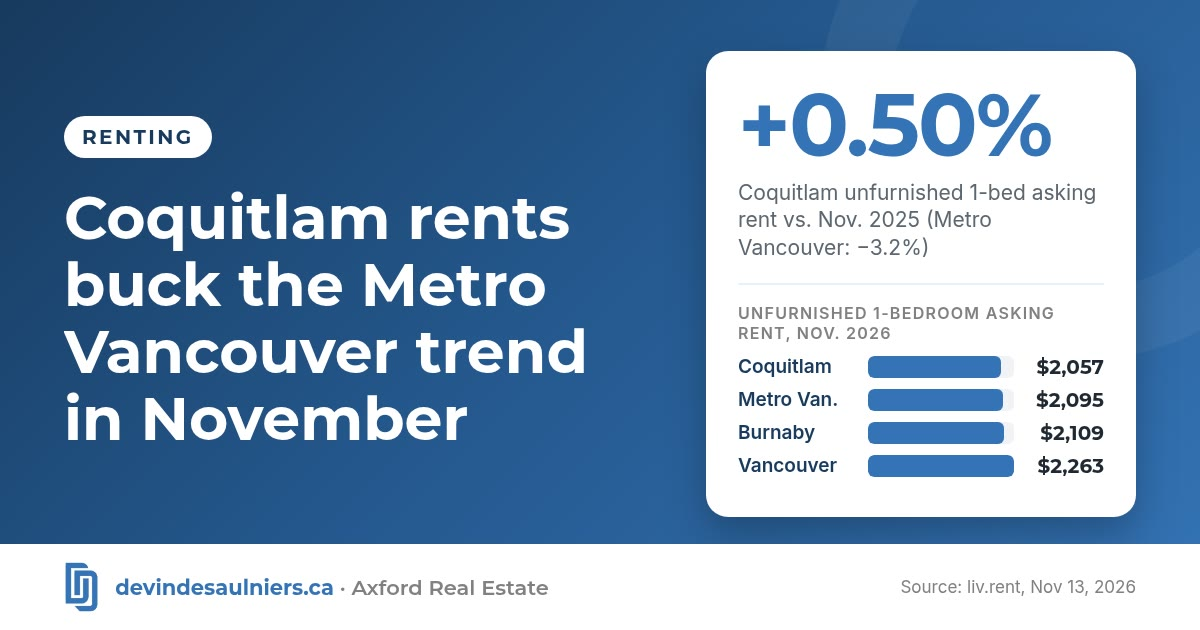
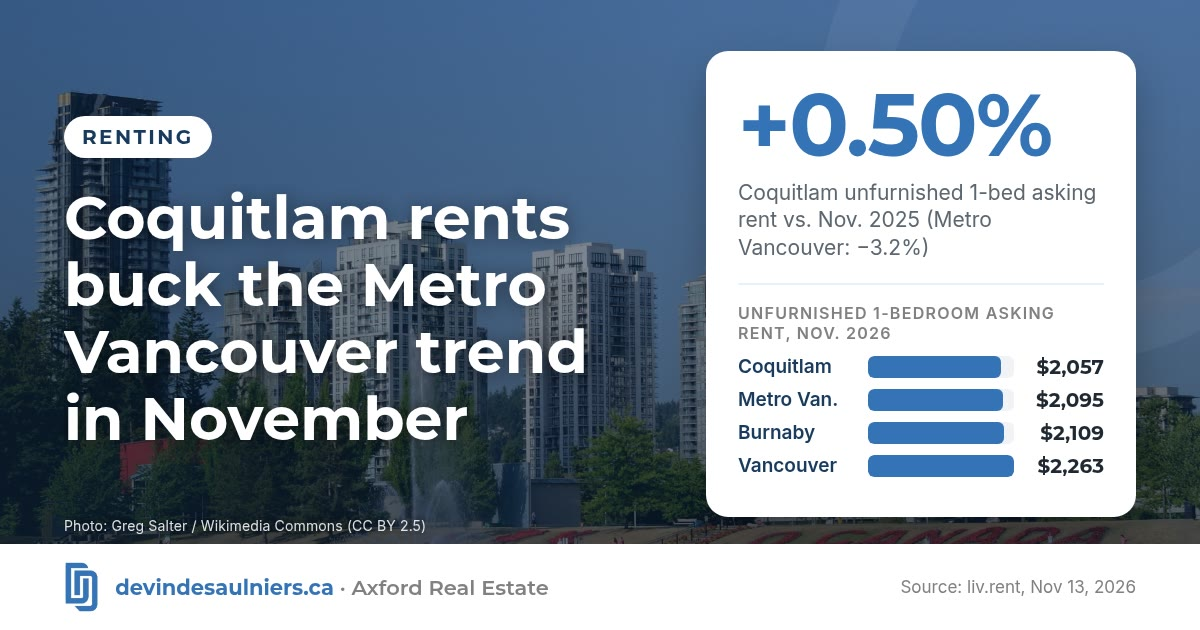
Blog: use place photos on the Moody Centre Station and Coquitlam rents headers
Swap the approved licensed photographs into the two live featured images, with on-image and on-page photo credits. Other posts are unchanged.

diff --git a/blog/2026-11-17-coquitlam-rents-buck-metro-vancouver-trend.html b/blog/2026-11-17-coquitlam-rents-buck-metro-vancouver-trend.html
@@ -75,11 +75,11 @@
 <meta property="article:author" content="Devin Desaulniers">
 <meta property="og:image:width" content="1200">
 <meta property="og:image:height" content="630">
-<meta property="og:image:alt" content="Branded graphic for the blog post “Coquitlam rents buck the Metro Vancouver trend in November” (Renting). Key number: Coquitlam&#x27;s average asking rent for an unfurnished one-bedroom was up 0.50% from November 2025, while the Metro Vancouver average was down 3.2%. Bar chart of unfurnished one-bedroom asking rents in November 2026: Coquitlam $2,057, Metro Vancouver average $2,095, Burnaby $2,109, Vancouver $2,263. Source: liv.rent, November 13, 2026.">
+<meta property="og:image:alt" content="Branded graphic over a photograph of Lafarge Lake and Coquitlam Town Centre for the blog post “Coquitlam rents buck the Metro Vancouver trend in November” (Renting). Key number: Coquitlam&#x27;s average asking rent for an unfurnished one-bedroom was up 0.50% from November 2025, while the Metro Vancouver average was down 3.2%. Bar chart of unfurnished one-bedroom asking rents in November 2026: Coquitlam $2,057, Metro Vancouver average $2,095, Burnaby $2,109, Vancouver $2,263. Source: liv.rent, November 13, 2026. Background photo: Greg Salter / Wikimedia Commons (CC BY 2.5).">
 <meta name="twitter:title" content="Coquitlam rents buck the Metro Vancouver trend in November">
 <meta name="twitter:description" content="November 2026 Metro Vancouver rent report: unfurnished one-bedrooms average $2,095 (down 3.2% year over year), while Coquitlam sits at $2,057, up 0.50%, and its two-bedrooms rose 6.18% to $2,503. What renters and newcomers to the Tri-Cities, BC should do.">
 <meta name="twitter:image" content="https://devindesaulniers.ca/assets/img/blog/2026-11-17-coquitlam-rents-buck-metro-vancouver-trend.jpg">
-<meta name="twitter:image:alt" content="Branded graphic for the blog post “Coquitlam rents buck the Metro Vancouver trend in November” (Renting). Key number: Coquitlam&#x27;s average asking rent for an unfurnished one-bedroom was up 0.50% from November 2025, while the Metro Vancouver average was down 3.2%. Bar chart of unfurnished one-bedroom asking rents in November 2026: Coquitlam $2,057, Metro Vancouver average $2,095, Burnaby $2,109, Vancouver $2,263. Source: liv.rent, November 13, 2026.">
+<meta name="twitter:image:alt" content="Branded graphic over a photograph of Lafarge Lake and Coquitlam Town Centre for the blog post “Coquitlam rents buck the Metro Vancouver trend in November” (Renting). Key number: Coquitlam&#x27;s average asking rent for an unfurnished one-bedroom was up 0.50% from November 2025, while the Metro Vancouver average was down 3.2%. Bar chart of unfurnished one-bedroom asking rents in November 2026: Coquitlam $2,057, Metro Vancouver average $2,095, Burnaby $2,109, Vancouver $2,263. Source: liv.rent, November 13, 2026. Background photo: Greg Salter / Wikimedia Commons (CC BY 2.5).">
 <link rel="alternate" type="application/rss+xml" title="Devin Desaulniers&#x27; Greater Vancouver Real Estate Blog" href="https://devindesaulniers.ca/blog/feed.xml">
 <script type="application/ld+json">
 {
@@ -193,7 +193,7 @@ gtag('config', 'AW-18574169872');
 <article class="section post">
   <div class="container narrow-wide">
     <div class="byline"><picture class="byline-photo"><source type="image/webp" srcset="../assets/img/devin-headshot-480.webp 480w" sizes="56px"><img src="../assets/img/devin-headshot-480.jpg" srcset="../assets/img/devin-headshot-480.jpg 480w" sizes="56px" width="480" height="600" alt="Devin Desaulniers" loading="lazy" decoding="async"></picture><div><strong>By Devin Desaulniers, Real Estate Associate, Axford Real Estate</strong><span>Published <time datetime="2026-11-17">November 17, 2026</time> · Greater Vancouver &amp; Tri-Cities, BC</span></div></div>
-    <figure class="post-image"><picture class=""><source type="image/webp" srcset="../assets/img/blog/2026-11-17-coquitlam-rents-buck-metro-vancouver-trend.webp"><img src="../assets/img/blog/2026-11-17-coquitlam-rents-buck-metro-vancouver-trend.jpg" width="1200" height="630" sizes="(max-width: 919px) 92vw, 840px" alt="Branded graphic for the blog post “Coquitlam rents buck the Metro Vancouver trend in November” (Renting). Key number: Coquitlam&#x27;s average asking rent for an unfurnished one-bedroom was up 0.50% from November 2025, while the Metro Vancouver average was down 3.2%. Bar chart of unfurnished one-bedroom asking rents in November 2026: Coquitlam $2,057, Metro Vancouver average $2,095, Burnaby $2,109, Vancouver $2,263. Source: liv.rent, November 13, 2026." fetchpriority="high" decoding="async"></picture></figure>
+    <figure class="post-image"><picture class=""><source type="image/webp" srcset="../assets/img/blog/2026-11-17-coquitlam-rents-buck-metro-vancouver-trend.webp"><img src="../assets/img/blog/2026-11-17-coquitlam-rents-buck-metro-vancouver-trend.jpg" width="1200" height="630" sizes="(max-width: 919px) 92vw, 840px" alt="Branded graphic over a photograph of Lafarge Lake and Coquitlam Town Centre for the blog post “Coquitlam rents buck the Metro Vancouver trend in November” (Renting). Key number: Coquitlam&#x27;s average asking rent for an unfurnished one-bedroom was up 0.50% from November 2025, while the Metro Vancouver average was down 3.2%. Bar chart of unfurnished one-bedroom asking rents in November 2026: Coquitlam $2,057, Metro Vancouver average $2,095, Burnaby $2,109, Vancouver $2,263. Source: liv.rent, November 13, 2026. Background photo: Greg Salter / Wikimedia Commons (CC BY 2.5)." fetchpriority="high" decoding="async"></picture><figcaption>Photo: <a href="https://commons.wikimedia.org/wiki/File:Coquitlam_Lafarge_Lake.jpg" target="_blank" rel="noopener">Greg Salter / Wikimedia Commons (CC BY 2.5)</a></figcaption></figure>
     <div class="post-body">
 <p>If you've been reading rental headlines this fall, you've mostly heard one thing: rents in Metro Vancouver are lower than a year ago. That's still true on average. But the latest monthly report from rental platform liv.rent, published November 13, shows Coquitlam heading the other way, and that matters if you're planning a move to the Tri-Cities, BC this winter.</p>
 <h2 id="what-the-november-rent-report-found">What the November rent report found</h2>

diff --git a/blog/2026-11-16-living-near-moody-centre-station-port-moody.html b/blog/2026-11-16-living-near-moody-centre-station-port-moody.html
@@ -75,11 +75,11 @@
 <meta property="article:author" content="Devin Desaulniers">
 <meta property="og:image:width" content="1200">
 <meta property="og:image:height" content="630">
-<meta property="og:image:alt" content="Branded graphic: Living near Moody Centre Station in Port Moody. About a 10-minute walk from the station to Rocky Point Park, with a bar chart of walking times: St. Johns 8, Rocky Point 10, Clarke Street 12, Queen Street Plaza 13 and Kyle Centre 13 minutes. Source: City of Port Moody.">
+<meta property="og:image:alt" content="Branded graphic over a photograph of Moody Centre Station in Port Moody: Living near Moody Centre Station in Port Moody. About a 10-minute walk from the station to Rocky Point Park, with a bar chart of walking times: St. Johns 8, Rocky Point 10, Clarke Street 12, Queen Street Plaza 13 and Kyle Centre 13 minutes. Source: City of Port Moody. Background photo: Canmenwalker / Wikimedia Commons (CC BY 4.0).">
 <meta name="twitter:title" content="Living near Moody Centre Station in Port Moody: a newcomer&#x27;s guide">
 <meta name="twitter:description" content="Living near Moody Centre Station in Port Moody: walking times to Rocky Point Park, St. Johns, Clarke Street, Queen Street Plaza and Kyle Centre, SkyTrain and West Coast Express, buses, car share, growth plans around the station, and a checklist for newcomers to the Tri-Cities, BC.">
 <meta name="twitter:image" content="https://devindesaulniers.ca/assets/img/blog/2026-11-16-living-near-moody-centre-station-port-moody.jpg">
-<meta name="twitter:image:alt" content="Branded graphic: Living near Moody Centre Station in Port Moody. About a 10-minute walk from the station to Rocky Point Park, with a bar chart of walking times: St. Johns 8, Rocky Point 10, Clarke Street 12, Queen Street Plaza 13 and Kyle Centre 13 minutes. Source: City of Port Moody.">
+<meta name="twitter:image:alt" content="Branded graphic over a photograph of Moody Centre Station in Port Moody: Living near Moody Centre Station in Port Moody. About a 10-minute walk from the station to Rocky Point Park, with a bar chart of walking times: St. Johns 8, Rocky Point 10, Clarke Street 12, Queen Street Plaza 13 and Kyle Centre 13 minutes. Source: City of Port Moody. Background photo: Canmenwalker / Wikimedia Commons (CC BY 4.0).">
 <link rel="alternate" type="application/rss+xml" title="Devin Desaulniers&#x27; Greater Vancouver Real Estate Blog" href="https://devindesaulniers.ca/blog/feed.xml">
 <script type="application/ld+json">
 {
@@ -197,7 +197,7 @@ gtag('config', 'AW-18574169872');
 <article class="section post">
   <div class="container narrow-wide">
     <div class="byline"><picture class="byline-photo"><source type="image/webp" srcset="../assets/img/devin-headshot-480.webp 480w" sizes="56px"><img src="../assets/img/devin-headshot-480.jpg" srcset="../assets/img/devin-headshot-480.jpg 480w" sizes="56px" width="480" height="600" alt="Devin Desaulniers" loading="lazy" decoding="async"></picture><div><strong>By Devin Desaulniers, Real Estate Associate, Axford Real Estate</strong><span>Published <time datetime="2026-11-16">November 16, 2026</time> · Greater Vancouver &amp; Tri-Cities, BC</span></div></div>
-    <figure class="post-image"><picture class=""><source type="image/webp" srcset="../assets/img/blog/2026-11-16-living-near-moody-centre-station-port-moody.webp"><img src="../assets/img/blog/2026-11-16-living-near-moody-centre-station-port-moody.jpg" width="1200" height="630" sizes="(max-width: 919px) 92vw, 840px" alt="Branded graphic: Living near Moody Centre Station in Port Moody. About a 10-minute walk from the station to Rocky Point Park, with a bar chart of walking times: St. Johns 8, Rocky Point 10, Clarke Street 12, Queen Street Plaza 13 and Kyle Centre 13 minutes. Source: City of Port Moody." fetchpriority="high" decoding="async"></picture></figure>
+    <figure class="post-image"><picture class=""><source type="image/webp" srcset="../assets/img/blog/2026-11-16-living-near-moody-centre-station-port-moody.webp"><img src="../assets/img/blog/2026-11-16-living-near-moody-centre-station-port-moody.jpg" width="1200" height="630" sizes="(max-width: 919px) 92vw, 840px" alt="Branded graphic over a photograph of Moody Centre Station in Port Moody: Living near Moody Centre Station in Port Moody. About a 10-minute walk from the station to Rocky Point Park, with a bar chart of walking times: St. Johns 8, Rocky Point 10, Clarke Street 12, Queen Street Plaza 13 and Kyle Centre 13 minutes. Source: City of Port Moody. Background photo: Canmenwalker / Wikimedia Commons (CC BY 4.0)." fetchpriority="high" decoding="async"></picture><figcaption>Photo: <a href="https://commons.wikimedia.org/wiki/File:Moody_Centre_Station_2025.jpg" target="_blank" rel="noopener">Canmenwalker / Wikimedia Commons (CC BY 4.0)</a></figcaption></figure>
     <div class="post-body">
 <p>Is living near Moody Centre Station in Port Moody a good fit for a newcomer? If you'd like to walk to the waterfront, local shops and a community centre, and have both SkyTrain and the West Coast Express at one station, it's worth a look. According to the City of Port Moody, Rocky Point Park is about a 10-minute walk from the station and the St. Johns Street shops about 8.</p>
 <p>I'm Devin Desaulniers, a Real Estate Associate with Axford Real Estate in Port Moody. I've been licensed since 2020, I'm a lifelong Coquitlam local, and I've lived in Greater Vancouver for 28 years. Last week I wrote about <a href="/blog/2026-11-11-living-near-inlet-centre-station-port-moody.html">living near Inlet Centre Station</a>, Port Moody's other SkyTrain stop. This post covers the older, waterfront end of the city.</p>

diff --git a/_posts/2026-11-17-coquitlam-rents-buck-metro-vancouver-trend.md b/_posts/2026-11-17-coquitlam-rents-buck-metro-vancouver-trend.md
@@ -20,7 +20,11 @@ card_chart:
   - label: Vancouver
     value: 2263
     display: "$2,263"
-image_alt: "Branded graphic for the blog post “Coquitlam rents buck the Metro Vancouver trend in November” (Renting). Key number: Coquitlam's average asking rent for an unfurnished one-bedroom was up 0.50% from November 2025, while the Metro Vancouver average was down 3.2%. Bar chart of unfurnished one-bedroom asking rents in November 2026: Coquitlam $2,057, Metro Vancouver average $2,095, Burnaby $2,109, Vancouver $2,263. Source: liv.rent, November 13, 2026."
+card_photo: assets/img/blog/photos/coquitlam-lafarge-lake.jpg
+card_photo_position: "center 42%"
+card_photo_credit: "Greg Salter / Wikimedia Commons (CC BY 2.5)"
+card_photo_credit_url: https://commons.wikimedia.org/wiki/File:Coquitlam_Lafarge_Lake.jpg
+image_alt: "Branded graphic over a photograph of Lafarge Lake and Coquitlam Town Centre for the blog post “Coquitlam rents buck the Metro Vancouver trend in November” (Renting). Key number: Coquitlam's average asking rent for an unfurnished one-bedroom was up 0.50% from November 2025, while the Metro Vancouver average was down 3.2%. Bar chart of unfurnished one-bedroom asking rents in November 2026: Coquitlam $2,057, Metro Vancouver average $2,095, Burnaby $2,109, Vancouver $2,263. Source: liv.rent, November 13, 2026. Background photo: Greg Salter / Wikimedia Commons (CC BY 2.5)."
 sources:
   - title: "November 2026 Metro Vancouver rent report"
     publisher: liv.rent

diff --git a/_posts/2026-11-16-living-near-moody-centre-station-port-moody.md b/_posts/2026-11-16-living-near-moody-centre-station-port-moody.md
@@ -23,7 +23,11 @@ card_chart:
   - label: Kyle Centre
     value: 13
     display: "13"
-image_alt: "Branded graphic: Living near Moody Centre Station in Port Moody. About a 10-minute walk from the station to Rocky Point Park, with a bar chart of walking times: St. Johns 8, Rocky Point 10, Clarke Street 12, Queen Street Plaza 13 and Kyle Centre 13 minutes. Source: City of Port Moody."
+card_photo: assets/img/blog/photos/moody-centre-station-2025.jpg
+card_photo_position: "center 32%"
+card_photo_credit: "Canmenwalker / Wikimedia Commons (CC BY 4.0)"
+card_photo_credit_url: https://commons.wikimedia.org/wiki/File:Moody_Centre_Station_2025.jpg
+image_alt: "Branded graphic over a photograph of Moody Centre Station in Port Moody: Living near Moody Centre Station in Port Moody. About a 10-minute walk from the station to Rocky Point Park, with a bar chart of walking times: St. Johns 8, Rocky Point 10, Clarke Street 12, Queen Street Plaza 13 and Kyle Centre 13 minutes. Source: City of Port Moody. Background photo: Canmenwalker / Wikimedia Commons (CC BY 4.0)."
 sources:
   - title: "Getting Around"
     publisher: City of Port Moody
